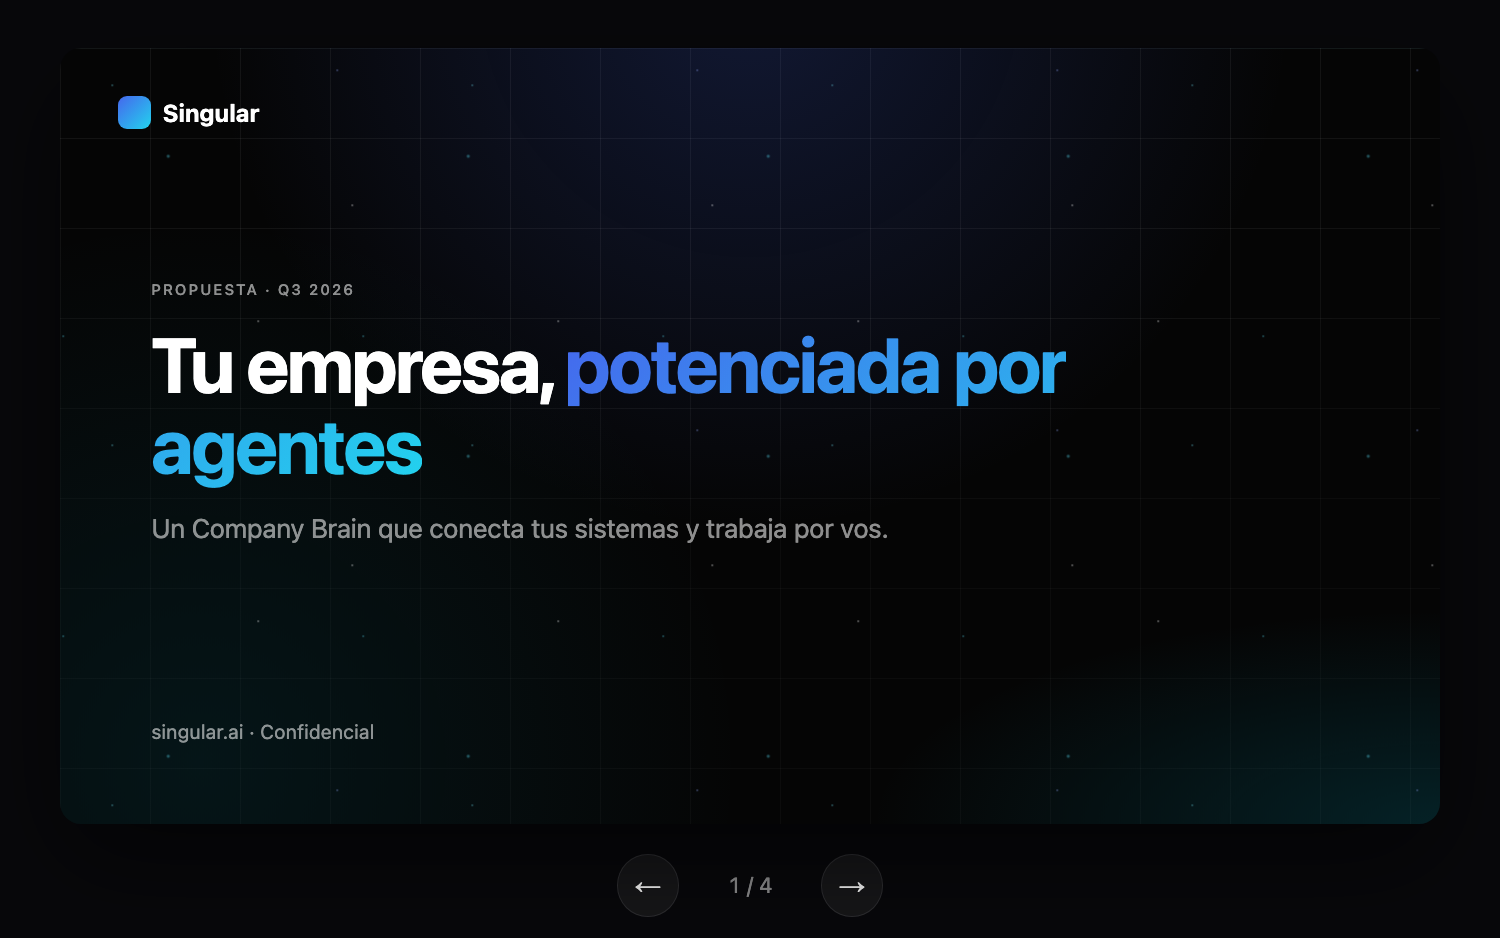
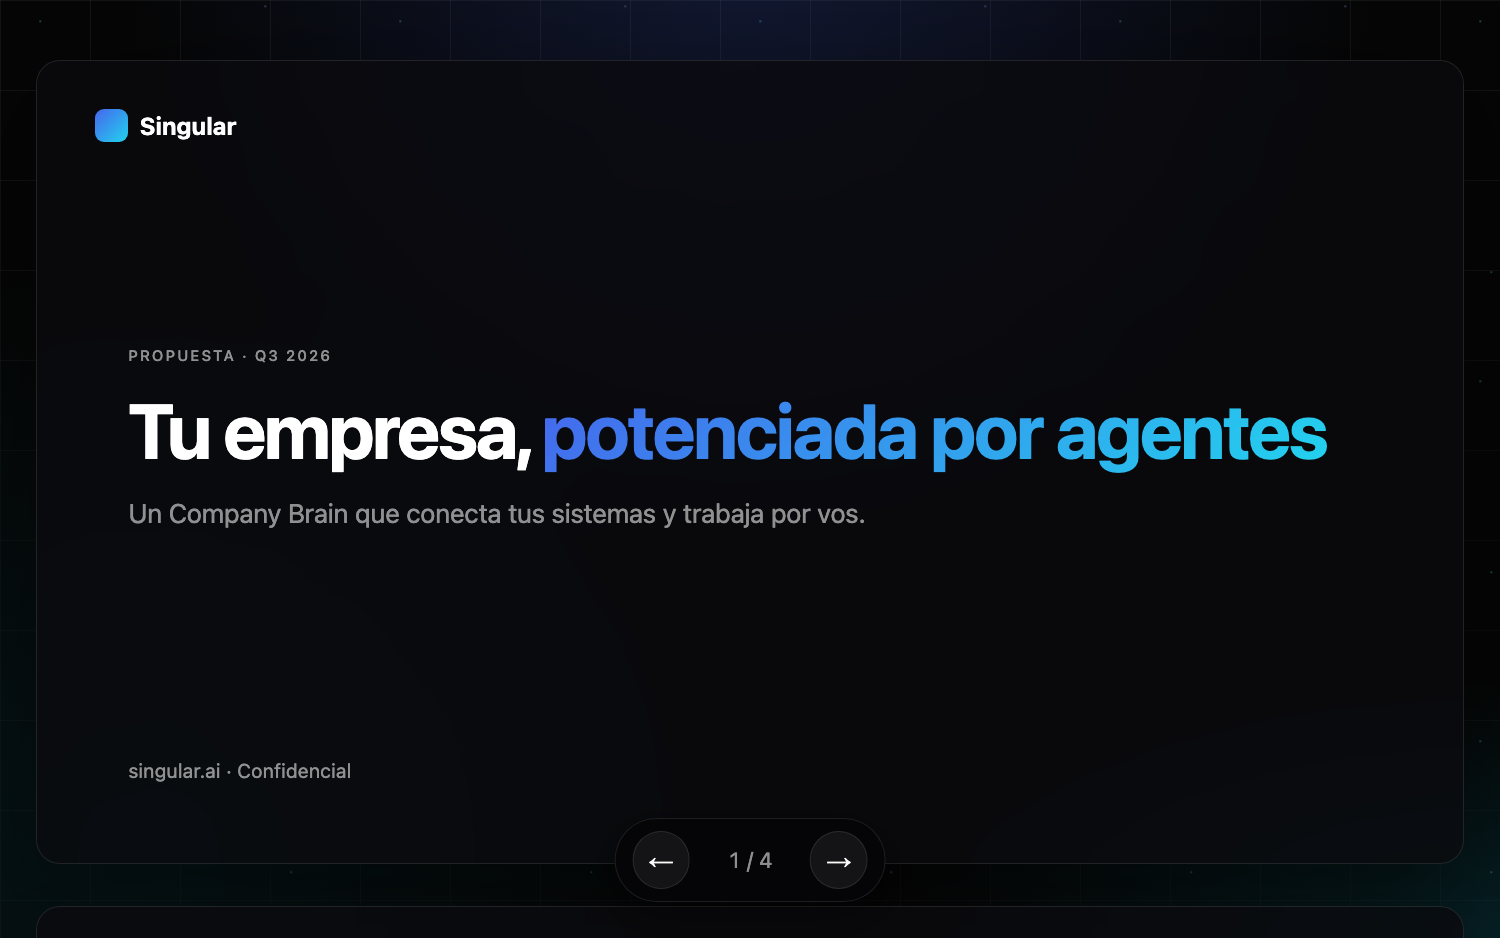
feat(slides): fondo de marca como background de página + slides como cards glass
- el fondo de marca (mist + grid + stars) va FIJO detrás de la página, no dentro de cada slide
- slides = cards glass (translúcidas + blur) que flotan sobre el fondo
- scroll libre + botones ← → (y flechas) que hacen scroll al slide; contador por IntersectionObserver

diff --git a/surfaces/slides-presentations/demo.html b/surfaces/slides-presentations/demo.html
@@ -6,12 +6,16 @@
 <link rel="stylesheet" href="../../tokens/core-utilities.css">
 <link rel="stylesheet" href="../../backgrounds/brand-background.css">
 <style>
-  body { margin: 0; font-family: var(--font-sans); background: #08080b; color: var(--foreground); min-height: 100vh; display: flex; flex-direction: column; align-items: center; justify-content: center; gap: 1.25rem; padding: 2rem; box-sizing: border-box; }
-  .deck { position: relative; width: min(92vw, 1040px); aspect-ratio: 16/9; border-radius: 14px; box-shadow: 0 24px 70px rgb(0 0 0/.55); }
-  .slide { position: absolute; inset: 0; border-radius: 14px; overflow: hidden; opacity: 0; pointer-events: none; transition: opacity .35s ease; }
-  .slide.active { opacity: 1; pointer-events: auto; }
+  body { margin: 0; font-family: var(--font-sans); background: #050505; color: var(--foreground); }
+  /* Fondo de marca de PÁGINA — fijo, detrás de todos los slides */
+  .page-bg { position: fixed; inset: 0; z-index: 0; }
+  /* slides scrolleables encima del fondo */
+  .deck { position: relative; z-index: 1; max-width: 1040px; margin: 0 auto; padding: 40px 24px 120px; display: flex; flex-direction: column; gap: 28px; }
+  /* cada slide es una CARD glass que flota sobre el fondo de marca */
+  .slide { position: relative; aspect-ratio: 16/9; border-radius: 16px; overflow: hidden; scroll-margin-top: 28px;
+    background: color-mix(in srgb, #0a0a0e 80%, transparent); -webkit-backdrop-filter: blur(12px) saturate(1.1); backdrop-filter: blur(12px) saturate(1.1);
+    border: 1px solid var(--border); box-shadow: 0 24px 70px rgb(0 0 0/.5); }
   .pad { position: relative; z-index: 1; height: 100%; box-sizing: border-box; padding: 3.4rem 3.8rem; display: flex; flex-direction: column; }
-  /* logo arriba a la izquierda (en todos los slides) */
   .logo { position: absolute; top: 2rem; left: 2.4rem; z-index: 2; display: inline-flex; align-items: center; gap: .5rem; font-weight: 700; color: var(--foreground-strong); }
   .logo .mk { width: 22px; height: 22px; border-radius: 6px; background-image: var(--gradient-primary); }
   .spacer { flex: 1; }
@@ -28,18 +32,21 @@
   .bignum { font-family: var(--font-mono); font-variant-numeric: tabular-nums; font-size: 4.6rem; font-weight: 700; line-height: 1; color: var(--foreground-strong); }
   .bars { display: flex; gap: .8rem; align-items: flex-end; height: 190px; }
   .bar { flex: 1; border-radius: 8px 8px 0 0; background-image: var(--gradient-primary); }
-  .cta-pill { display: inline-flex; align-items: center; gap: .4rem; background-image: var(--gradient-primary); color: var(--primary-foreground); border: 0; border-radius: var(--radius-full); padding: .7rem 1.4rem; font: inherit; font-weight: 600; margin-top: 1.4rem; }
-  /* navegación */
-  .nav { display: flex; align-items: center; gap: 1.2rem; }
-  .nav button { width: 2.6rem; height: 2.6rem; border-radius: var(--radius-full); border: 1px solid var(--border); background: color-mix(in srgb, #fff 6%, transparent); color: var(--foreground); cursor: pointer; font-size: 1.1rem; display: grid; place-items: center; transition: border-color .2s, background .2s; }
-  .nav button:hover { border-color: color-mix(in srgb, var(--primary) 50%, transparent); background: color-mix(in srgb, var(--primary) 12%, transparent); }
-  .nav .counter { font-variant-numeric: tabular-nums; color: var(--muted-foreground); font-size: .9rem; min-width: 3.5rem; text-align: center; }
-  .hint { color: var(--muted-foreground); font-size: .75rem; opacity: .7; }
+  .cta-pill { display: inline-flex; align-items: center; gap: .4rem; background-image: var(--gradient-primary); color: var(--primary-foreground); border: 0; border-radius: var(--radius-full); padding: .7rem 1.4rem; font: inherit; font-weight: 600; margin-top: 1.4rem; align-self: flex-start; }
+  /* navegación fija */
+  .nav { position: fixed; left: 50%; bottom: 1.5rem; transform: translateX(-50%); z-index: 30; display: flex; align-items: center; gap: 1rem;
+    background: color-mix(in srgb, #000 55%, var(--card)); border: 1px solid var(--border); border-radius: var(--radius-full); padding: .5rem .7rem; -webkit-backdrop-filter: blur(12px); backdrop-filter: blur(12px); box-shadow: 0 10px 30px rgb(0 0 0/.4); }
+  .nav button { width: 2.4rem; height: 2.4rem; border-radius: var(--radius-full); border: 1px solid var(--border); background: color-mix(in srgb, #fff 6%, transparent); color: var(--foreground); cursor: pointer; font-size: 1.05rem; display: grid; place-items: center; transition: border-color .2s, background .2s; }
+  .nav button:hover { border-color: color-mix(in srgb, var(--primary) 55%, transparent); background: color-mix(in srgb, var(--primary) 14%, transparent); }
+  .nav .counter { font-variant-numeric: tabular-nums; color: var(--muted-foreground); font-size: .9rem; min-width: 3rem; text-align: center; }
 </style></head><body>
+
+<!-- Fondo de marca de PÁGINA (detrás de los slides) -->
+<div class="page-bg brand-bg" aria-hidden="true"><div class="brand-bg__stars"></div></div>
 
 <div class="deck">
   <!-- TITLE -->
-  <section class="slide brand-bg active"><div class="brand-bg__stars"></div>
+  <section class="slide" data-slide>
     <div class="pad">
       <div class="logo"><span class="mk"></span> Singular</div>
       <div class="spacer"></div>
@@ -52,7 +59,7 @@
   </section>
 
   <!-- CONTENT -->
-  <section class="slide brand-bg"><div class="brand-bg__stars"></div>
+  <section class="slide" data-slide>
     <div class="pad">
       <div class="logo"><span class="mk"></span> Singular</div>
       <div class="spacer" style="max-height:1.5rem"></div>
@@ -67,7 +74,7 @@
   </section>
 
   <!-- DATA -->
-  <section class="slide brand-bg"><div class="brand-bg__stars"></div>
+  <section class="slide" data-slide>
     <div class="pad">
       <div class="logo"><span class="mk"></span> Singular</div>
       <div class="spacer" style="max-height:1.5rem"></div>
@@ -77,7 +84,7 @@
         <div>
           <div class="bignum">−62<span style="font-size:2.4rem">%</span></div>
           <p class="lead" style="margin-top:.6rem">de tiempo en tareas repetitivas en el primer trimestre.</p>
-          <div style="margin-top:1.2rem"><span class="bignum" style="font-size:2.2rem;background-image:var(--gradient-primary);-webkit-background-clip:text;background-clip:text;color:transparent">3.4×</span> <span style="color:var(--muted-foreground)">ROI promedio</span></div>
+          <div style="margin-top:1.2rem"><span class="bignum accent" style="font-size:2.2rem">3.4×</span> <span style="color:var(--muted-foreground)">ROI promedio</span></div>
         </div>
         <div class="bars">
           <div class="bar" style="height:45%"></div><div class="bar" style="height:62%"></div>
@@ -89,8 +96,8 @@
   </section>
 
   <!-- CLOSING -->
-  <section class="slide brand-bg"><div class="brand-bg__stars"></div>
-    <div class="pad" style="align-items:flex-start;justify-content:center">
+  <section class="slide" data-slide>
+    <div class="pad" style="justify-content:center">
       <div class="logo"><span class="mk"></span> Singular</div>
       <h1>¿Listo para <span class="accent">empezar</span>?</h1>
       <p class="lead">Una llamada de 30 minutos para ver qué se puede automatizar hoy.</p>
@@ -102,18 +109,18 @@
 </div>
 
 <div class="nav">
-  <button onclick="prev()" aria-label="Anterior">←</button>
+  <button onclick="go(-1)" aria-label="Slide anterior">←</button>
   <span class="counter" id="counter">1 / 4</span>
-  <button onclick="next()" aria-label="Siguiente">→</button>
+  <button onclick="go(1)" aria-label="Slide siguiente">→</button>
 </div>
-<div class="hint">Usá ← → o los botones para navegar</div>
 
 <script>
-  let i = 0;
-  const slides = [...document.querySelectorAll('.slide')];
-  function show(n){ i = (n + slides.length) % slides.length; slides.forEach((s,k)=>s.classList.toggle('active', k===i)); document.getElementById('counter').textContent = (i+1)+' / '+slides.length; }
-  function next(){ show(i+1); } function prev(){ show(i-1); }
-  addEventListener('keydown', e => { if(e.key==='ArrowRight') next(); if(e.key==='ArrowLeft') prev(); });
-  show(0);
+  const slides = [...document.querySelectorAll('[data-slide]')];
+  let current = 0;
+  const counter = document.getElementById('counter');
+  function go(dir){ current = Math.max(0, Math.min(slides.length-1, current + dir)); slides[current].scrollIntoView({ behavior: 'smooth', block: 'start' }); }
+  addEventListener('keydown', e => { if(e.key==='ArrowRight'||e.key==='ArrowDown'){e.preventDefault();go(1);} if(e.key==='ArrowLeft'||e.key==='ArrowUp'){e.preventDefault();go(-1);} });
+  const io = new IntersectionObserver((entries)=>{ entries.forEach(en=>{ if(en.isIntersecting && en.intersectionRatio>0.5){ current = slides.indexOf(en.target); counter.textContent = (current+1)+' / '+slides.length; } }); }, { threshold:[0.5] });
+  slides.forEach(s=>io.observe(s));
 </script>
 </body></html>
